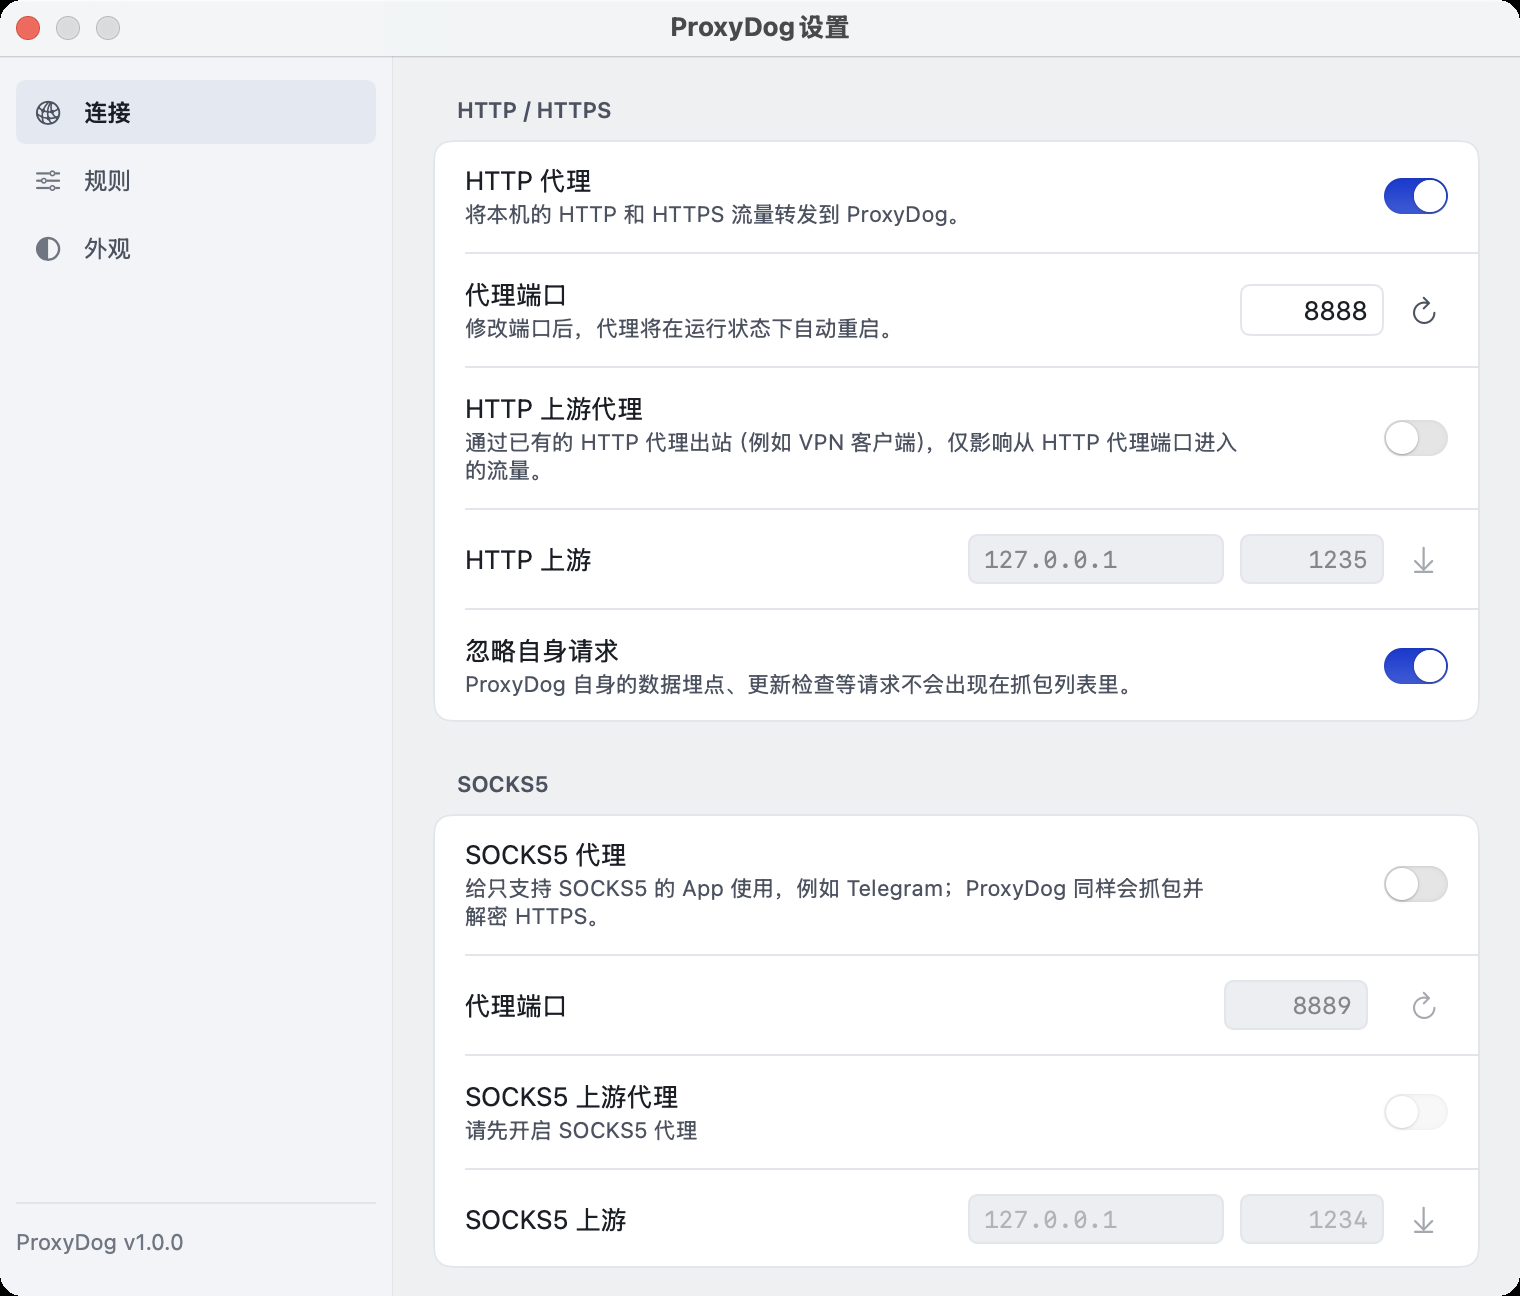
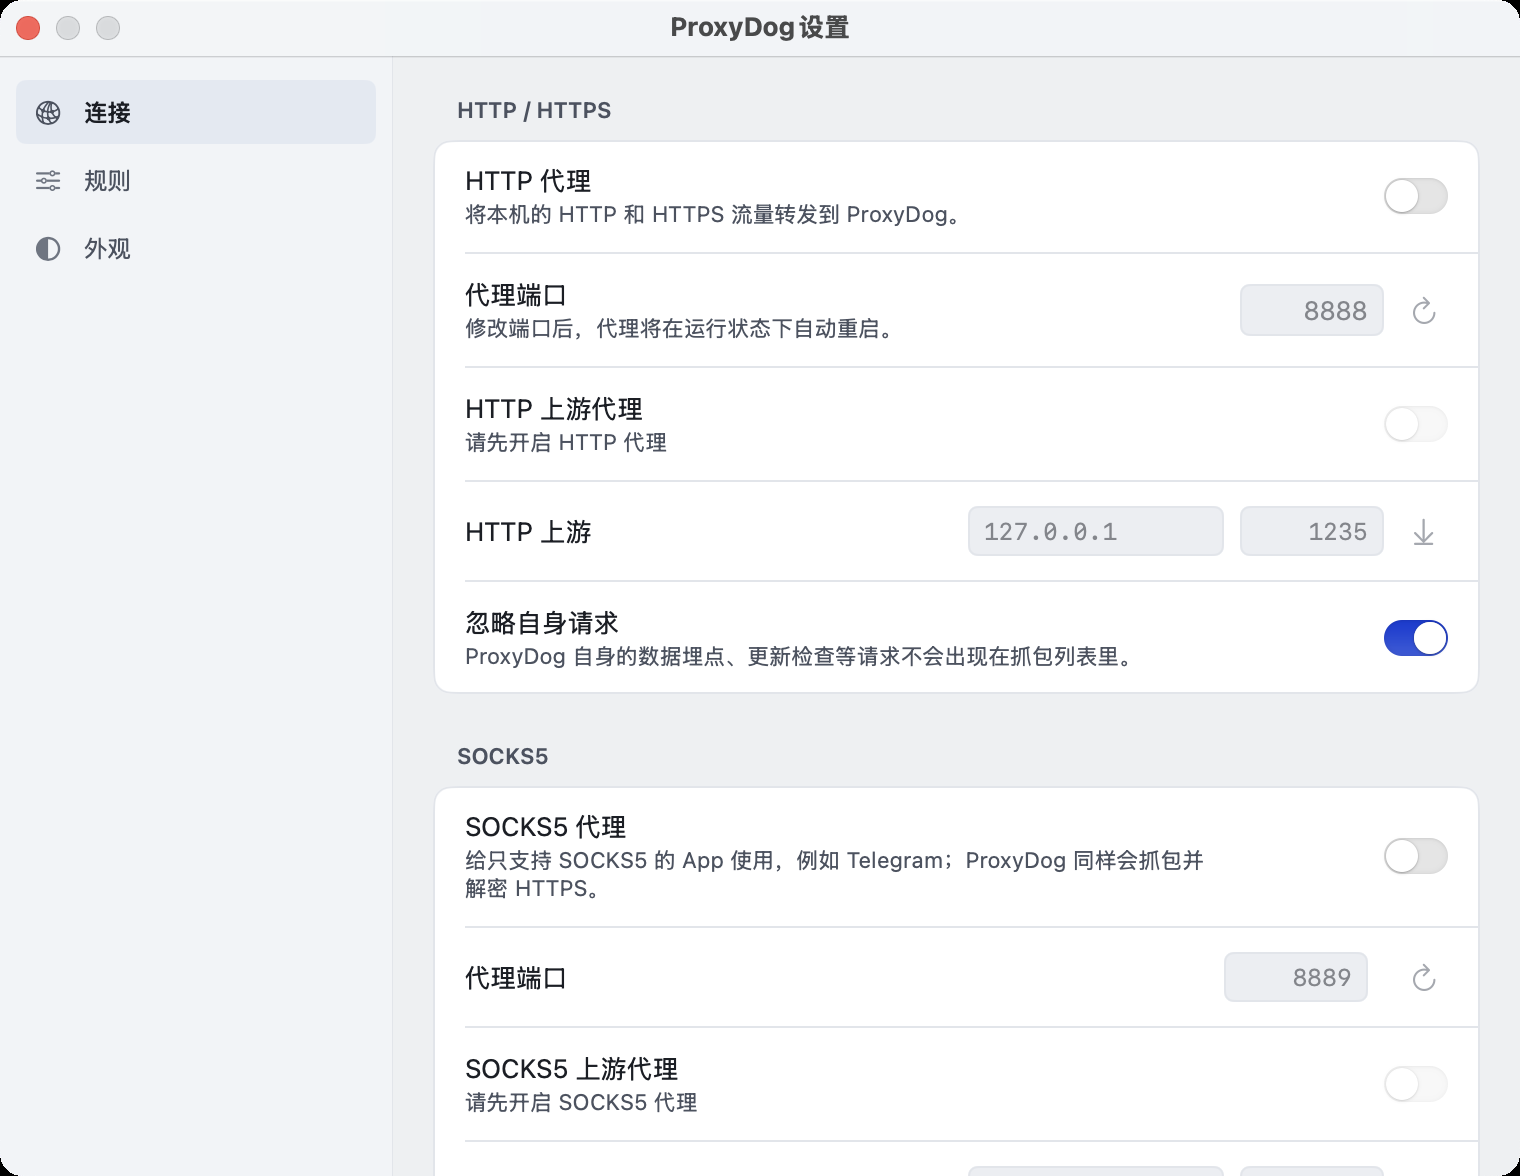
Drop the settings version footer and shorten the window

diff --git a/Sources/ProxyDog/UI/SettingsView.swift b/Sources/ProxyDog/UI/SettingsView.swift
@@ -90,7 +90,7 @@ struct SettingsView: View {
             }
             .frame(maxWidth: .infinity, maxHeight: .infinity)
         }
-        .frame(width: 760, height: 620)
+        .frame(width: 760, height: 560)
         .onAppear {
             // The settings scene restores its previous frame, which can be narrower than the
             // sidebar + content split; pin the size when the pane appears.
@@ -99,7 +99,7 @@ struct SettingsView: View {
                     window.isVisible && (window.title.contains("设置") || window.title.localizedCaseInsensitiveContains("settings"))
                 }
                 target?.styleMask.remove(.resizable)
-                target?.setContentSize(NSSize(width: 760, height: 620))
+                target?.setContentSize(NSSize(width: 760, height: 560))
             }
             // Fill the upstream address from whatever proxy is already running so the user
             // never has to type it by hand.
@@ -147,7 +147,6 @@ struct SettingsView: View {
                 sidebarRow(tab)
             }
             Spacer(minLength: 0)
-            versionFooter
         }
         .padding(.horizontal, DS.Space.x2)
         .padding(.top, DS.Space.x3)
@@ -551,21 +550,6 @@ struct SettingsView: View {
                 .disabled(!state.isCertificateTrusted)
                 .accessibilityLabel("SSL proxying")
             }
-        }
-    }
-
-    // MARK: - Footer
-
-    private var versionFooter: some View {
-        VStack(spacing: 0) {
-            Rectangle()
-                .fill(DSColor.border)
-                .frame(height: 1)
-            Text(verbatim: "\(AppInfo.name) \(AppInfo.versionLabel)")
-                .font(DS.Typography.ui(11))
-                .foregroundStyle(DSColor.textMuted)
-                .frame(maxWidth: .infinity, alignment: .leading)
-                .padding(.vertical, DS.Space.x3)
         }
     }
 
